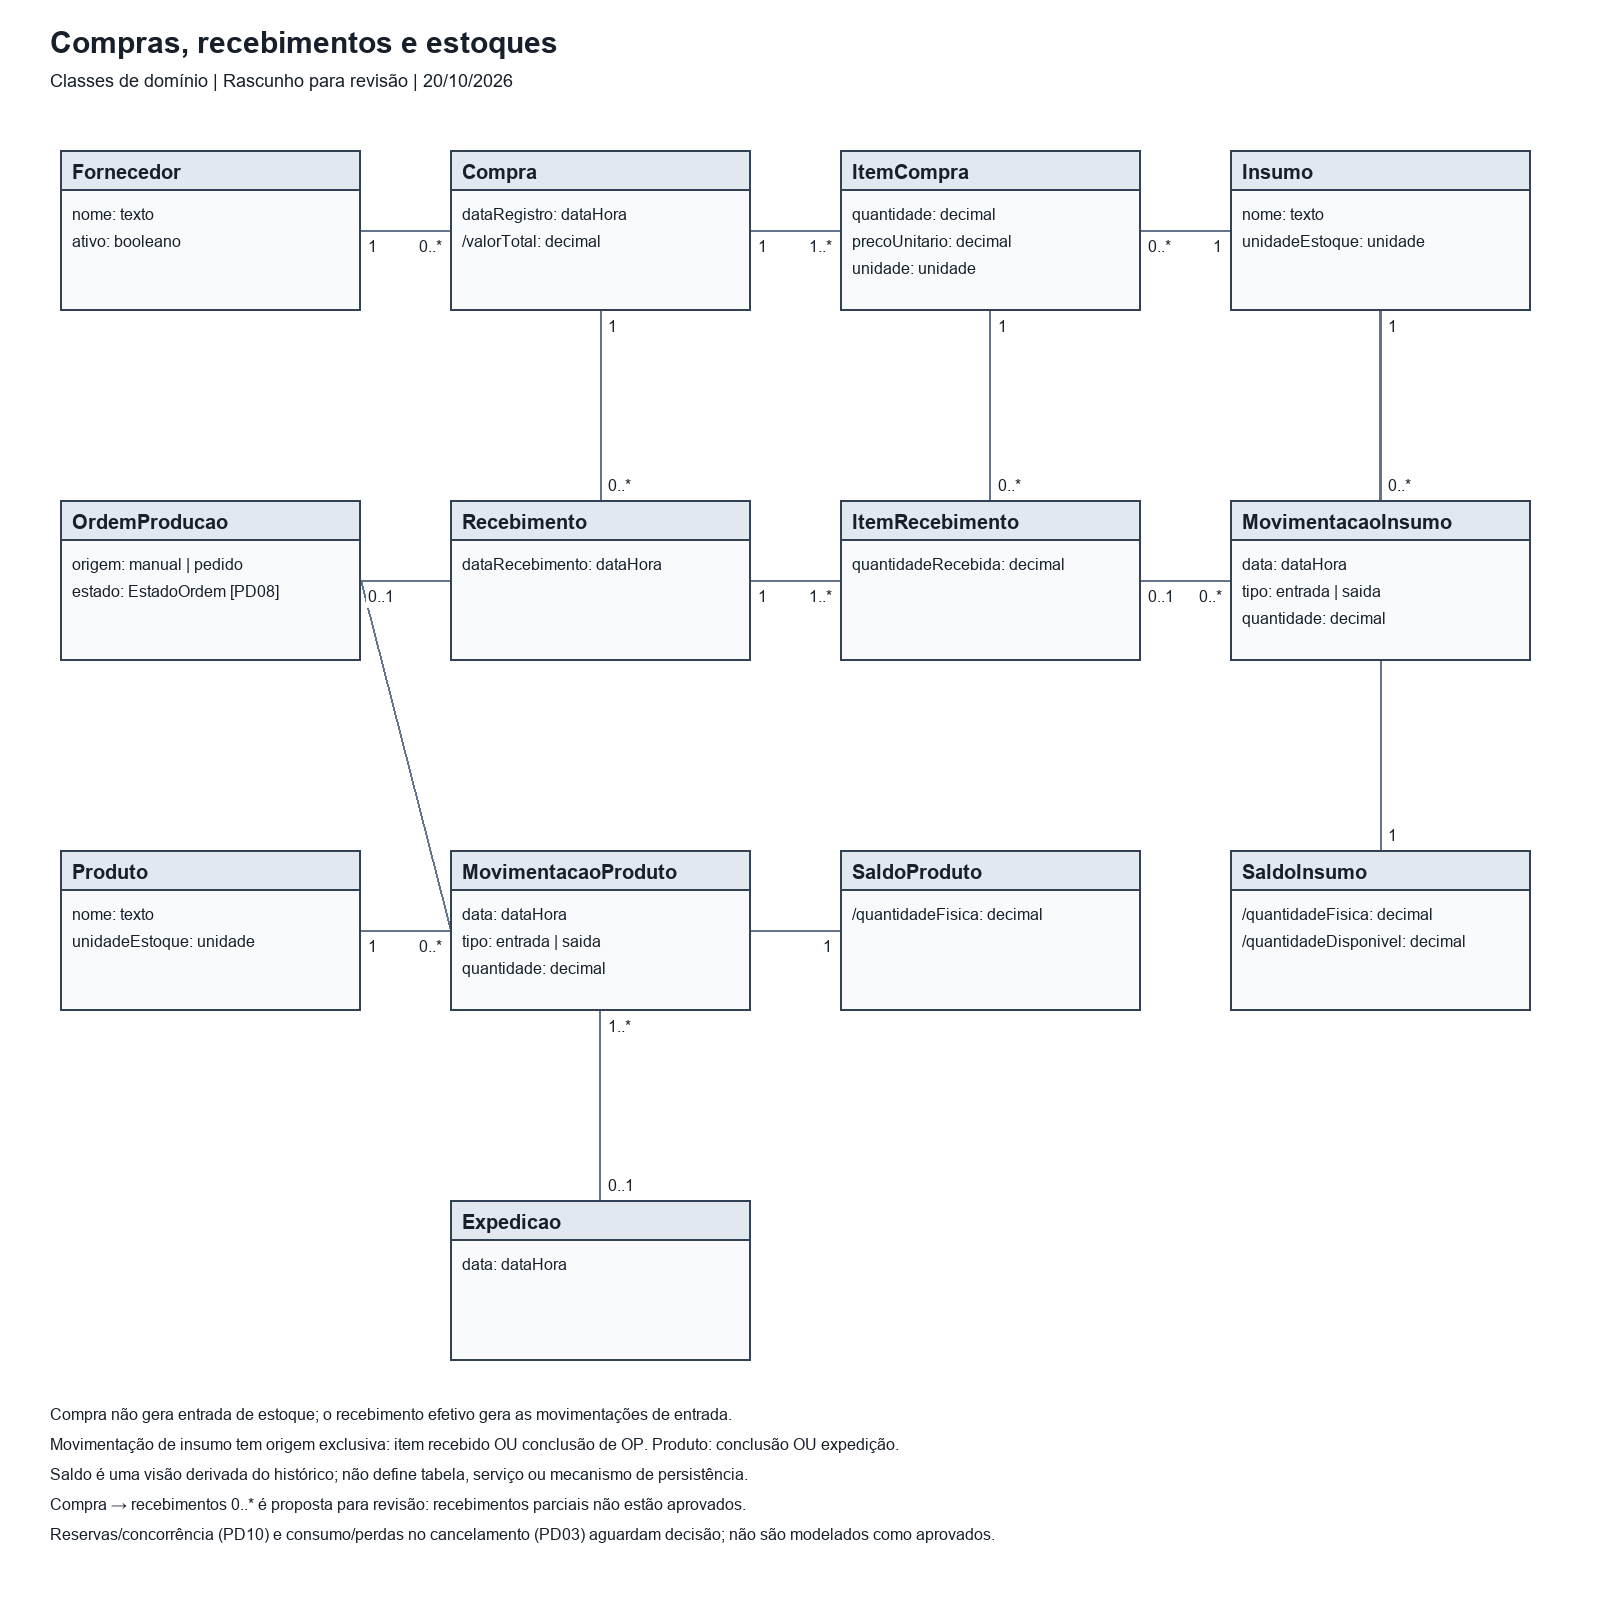
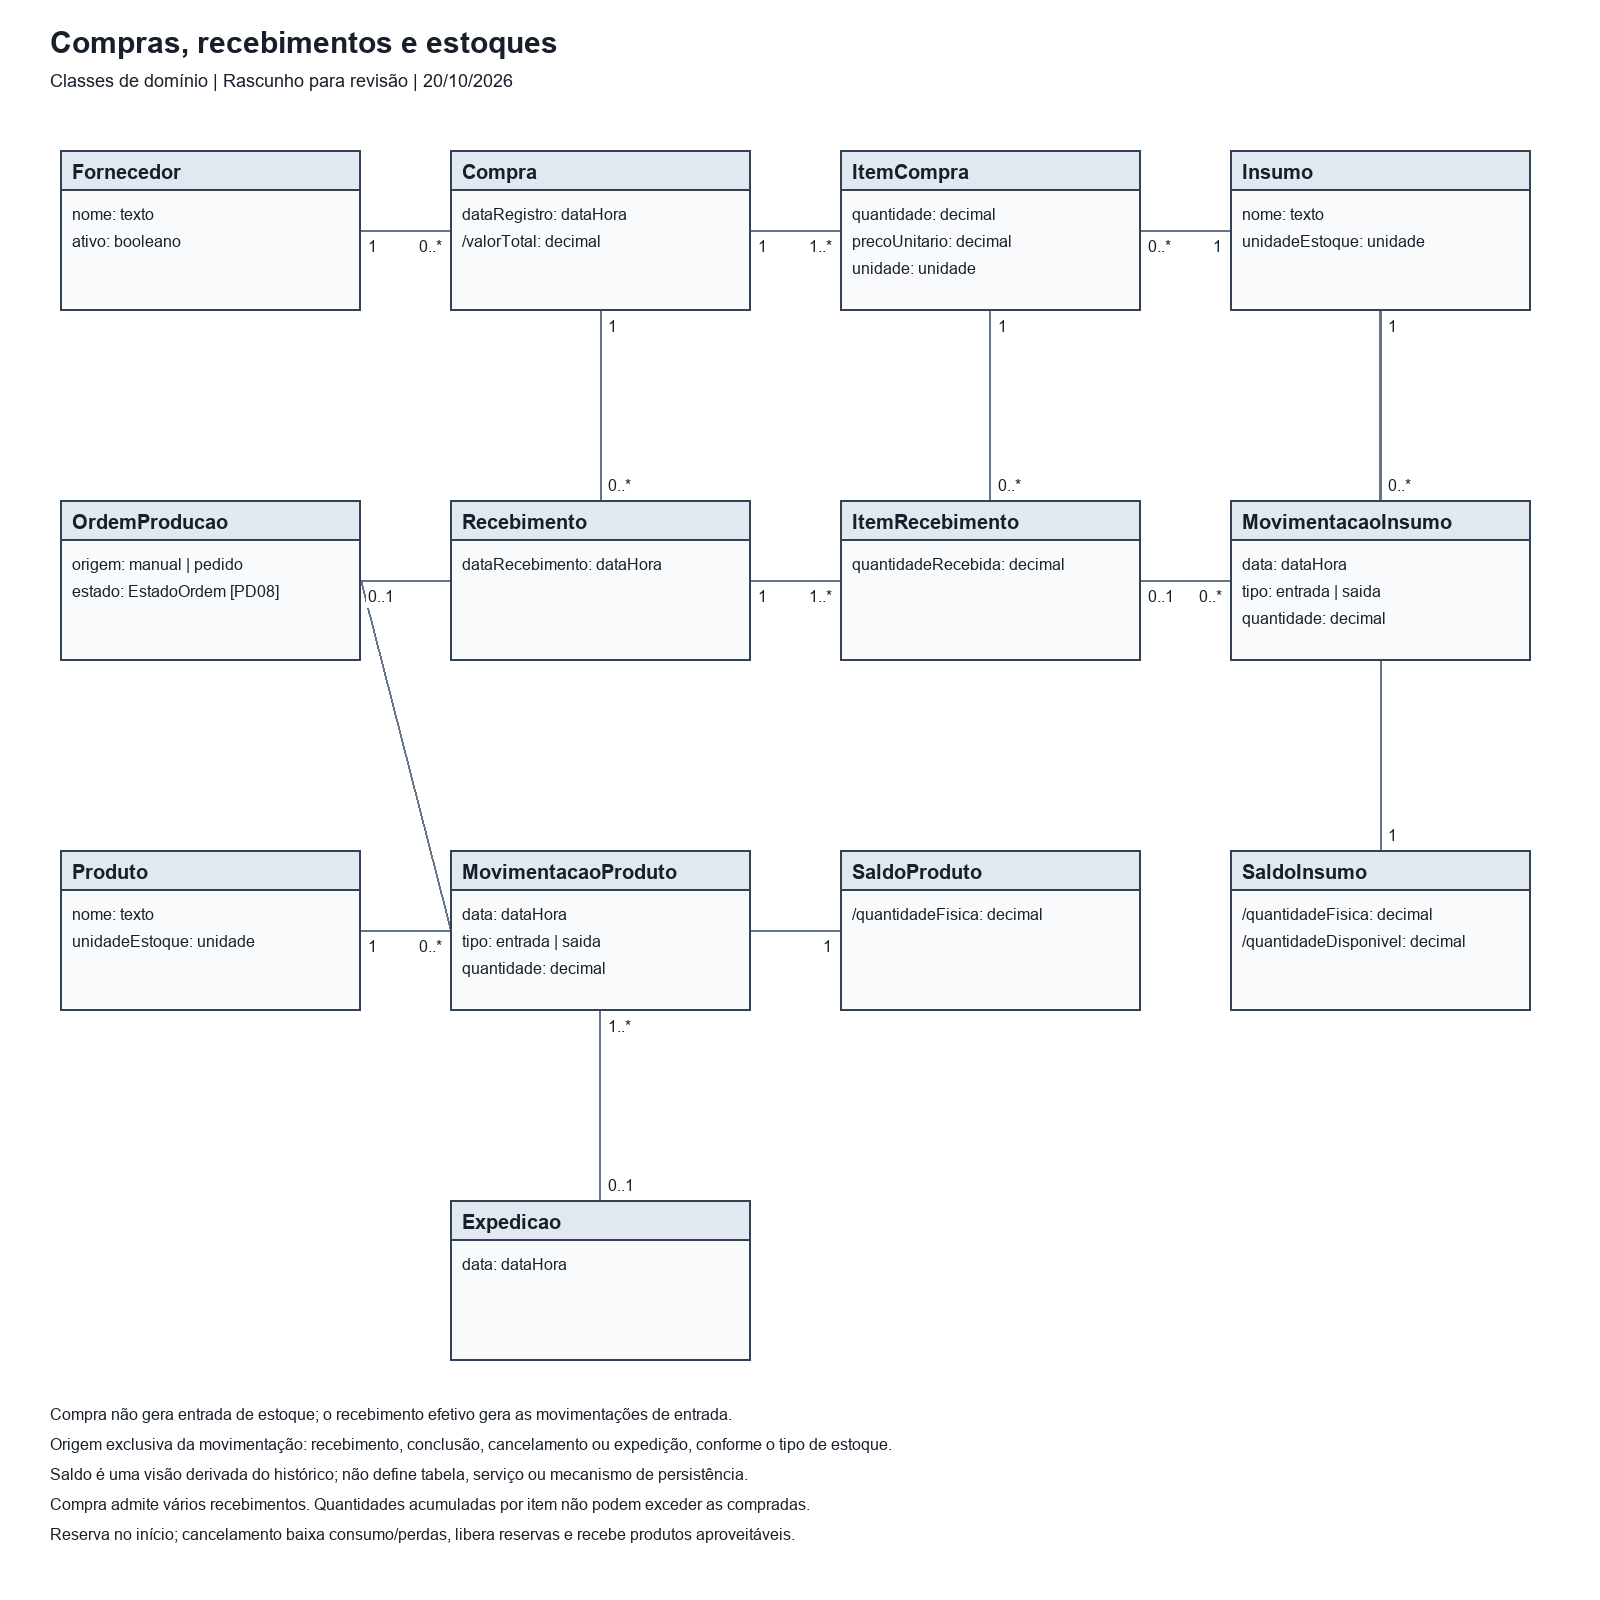
docs: incorpora decisoes de reserva receitas e cancelamento

Changed region(s): [[0.0312, 0.875, 0.5625, 0.9062], [0.0625, 0.9375, 0.5312, 0.9688]]

diff --git a/docs/02-requisitos/atores-casos-de-uso-regras-de-negocio.md b/docs/02-requisitos/atores-casos-de-uso-regras-de-negocio.md
@@ -72,7 +72,7 @@ Para CU01, CU02 e CU20, o diagrama usa a categoria genérica **Usuário interno 
 5. O sistema compara a necessidade total com a disponibilidade no estoque.
 6. Com faltas, a ordem aguarda reposição; PCP identifica os itens e aciona Compras. Com todos os insumos disponíveis, a ordem pode seguir para início da produção.
 
-**Resultado:** a ordem manual é independente de pedido. Em CU06, uma única ordem é gerada automaticamente para todo pedido, inclusive com estoque acabado suficiente. Criar a ordem não consome insumos. Reserva de estoque e concorrência entre ordens dependem de PD10.
+**Resultado:** a ordem manual é independente de pedido. Em CU06, uma única ordem é gerada automaticamente para todo pedido, inclusive com estoque acabado suficiente. Criar a ordem não consome insumos. A reserva ocorre no início da produção; o mecanismo técnico de concorrência permanece em PD10. A composição usada fica preservada na OP.
 
 ### CU11 e CU12: comprar e receber insumos
 
@@ -82,21 +82,25 @@ Para CU01, CU02 e CU20, o diagrama usa a categoria genérica **Usuário interno 
 4. A disponibilidade para as ordens aguardando reposição é reavaliada.
 5. Somente com todos os insumos necessários disponíveis a produção poderá iniciar.
 
-**Limites:** sem criação/envio automático de pedidos de compra. Recebimentos parciais e sua rastreabilidade não foram definidos pelo grupo e não são presumidos como aprovados neste fluxo.
+**Limites:** sem criação/envio automático de pedidos de compra. Recebimentos parciais são permitidos: cada recebimento referencia os itens da compra, respeita o saldo pendente e movimenta somente o efetivamente recebido.
 
 ### CU13 e CU14: iniciar e concluir produção
 
 1. Produção solicita o início da ordem.
-2. O sistema verifica a disponibilidade dos insumos e bloqueia o início se houver faltas.
+2. O sistema verifica e reserva os insumos ao iniciar, considerando reservas ativas de outras ordens; bloqueia o início se houver faltas.
 3. Produção executa a ordem.
 4. Produção registra sua conclusão integral.
-5. Na conclusão, o sistema registra a baixa dos insumos e a entrada de todos os produtos acabados correspondentes.
+5. Na conclusão, o sistema registra a baixa dos insumos, encerra a reserva e dá entrada em todos os produtos acabados correspondentes.
 
 **Limites:** sem conclusão parcial. A baixa normal ocorre somente na conclusão, nunca na criação ou no início. O mecanismo de integridade das movimentações será definido na arquitetura; as duas movimentações representam a mesma conclusão.
 
 ### CU15: cancelamento durante a produção
 
-O registro deve incluir motivo e situação dos insumos e produtos. Produto acabado aproveitável poderá ser incorporado ao estoque. Consumo efetivo, perdas, quantidades aproveitadas, autorizações e movimentações dependem de PD03; este caso de uso ainda não possui fluxo completo aprovado.
+1. Produção informa o motivo e apura, por insumo, consumo e perdas em quantidades separadas, sem sobreposição.
+2. Informa os produtos e quantidades aproveitáveis.
+3. O sistema baixa uma única vez o consumo e as perdas, libera a reserva não utilizada e dá entrada nos produtos aproveitáveis.
+
+Autorizações e tratamento de outras falhas seguem em PD03. O cancelamento é um encerramento excepcional; a conclusão normal continua integral. Ver RF29, RF34–RF36 e RN26–RN29.
 
 ### CU16: expedir pedido
 

diff --git a/docs/01-visao-geral/decisoes-do-projeto.md b/docs/01-visao-geral/decisoes-do-projeto.md
@@ -167,3 +167,12 @@ Esses itens não devem ser considerados definidos até serem discutidos e docume
 Em 13/10/2026, este documento foi atualizado com o resumo da discussão e a imagem do macrofluxo. Naquela revisão, foi confirmada pelo solicitante a obrigatoriedade de criar uma ordem para todo pedido, inclusive com estoque acabado suficiente. A validação coletiva do fluxo ainda estava pendente àquela data.
 
 Em 17/10/2026, o solicitante confirmou que a revisão do grupo sobre a base consolidada no PR #13 já ocorreu. Essa confirmação atualiza o status da base e do macrofluxo; as decisões listadas como pendentes continuam abertas. O PDF de visão geral foi alinhado ao acesso exclusivamente interno e ao financeiro simplificado.
+
+## Confirmações do modelo de domínio — 20/10/2026
+
+1. Reservar insumos no início da produção; baixa física normal na conclusão, com encerramento da reserva.
+2. Preservar na OP a composição e as quantidades originais da receita, incluindo unidades e rendimento.
+3. No cancelamento, apurar consumo e perdas sem sobreposição, baixar uma única vez, liberar o restante reservado e receber produtos aproveitáveis.
+4. Permitir vários recebimentos por compra, com controle do saldo pendente de cada item.
+
+Essas decisões complementam RF34–RF36 e RN26–RN29 no escopo. Detalhes de autorização, concorrência técnica e revisão da composição após alteração de pedido permanecem explícitos.

diff --git a/docs/03-modelagem/README.md b/docs/03-modelagem/README.md
@@ -7,7 +7,7 @@ Cada guia explica brevemente o que o diagrama representa e por que ele é import
 | Visão geral funcional | [Ler guia](../01-visao-geral/guia-da-visao-geral.md) | PDF disponível na pasta de visão geral. |
 | Fluxo macro | [Ler guia](fluxo-macro/guia-do-diagrama.md) | Imagem, editável e documentação disponíveis. |
 | Casos de uso | [Ler guia](casos-de-uso/guia-do-diagrama.md) | Imagem, editável e catálogo disponíveis. |
-| Classes de domínio | [Ler guia](classes/guia-do-diagrama.md) | [Rascunho com três vistas, imagens e editável](classes/README.md); decisões em revisão. |
+| Classes de domínio | [Ler guia](classes/guia-do-diagrama.md) | [Rascunho com quatro vistas, imagens e editável](classes/README.md); decisões em revisão. |
 | Dados / DER | [Ler guia](dados/guia-do-diagrama.md) | Modelo ainda a elaborar. |
 | Atividades | [Ler guia](atividades/guia-do-diagrama.md) | Modelo ainda a elaborar. |
 | Estados | [Ler guia](estados/guia-do-diagrama.md) | Modelo ainda a elaborar. |

diff --git a/docs/03-modelagem/classes/guia-do-diagrama.md b/docs/03-modelagem/classes/guia-do-diagrama.md
@@ -14,4 +14,4 @@ Deve representar pedidos e ordens com seus itens e as receitas com composição 
 
 ## Base para elaboração
 
-O [rascunho do modelo](README.md) está disponível em três vistas e arquivo editável, elaborado conforme o [catálogo funcional](../../02-requisitos/atores-casos-de-uso-regras-de-negocio.md) e o [escopo](../../02-requisitos/escopo-e-requisitos.md). Relacionamentos afetados por decisões pendentes devem ser identificados como tal.
+O [rascunho do modelo](README.md) está disponível em quatro vistas e arquivo editável, elaborado conforme o [catálogo funcional](../../02-requisitos/atores-casos-de-uso-regras-de-negocio.md) e o [escopo](../../02-requisitos/escopo-e-requisitos.md). Relacionamentos afetados por decisões pendentes devem ser identificados como tal.
